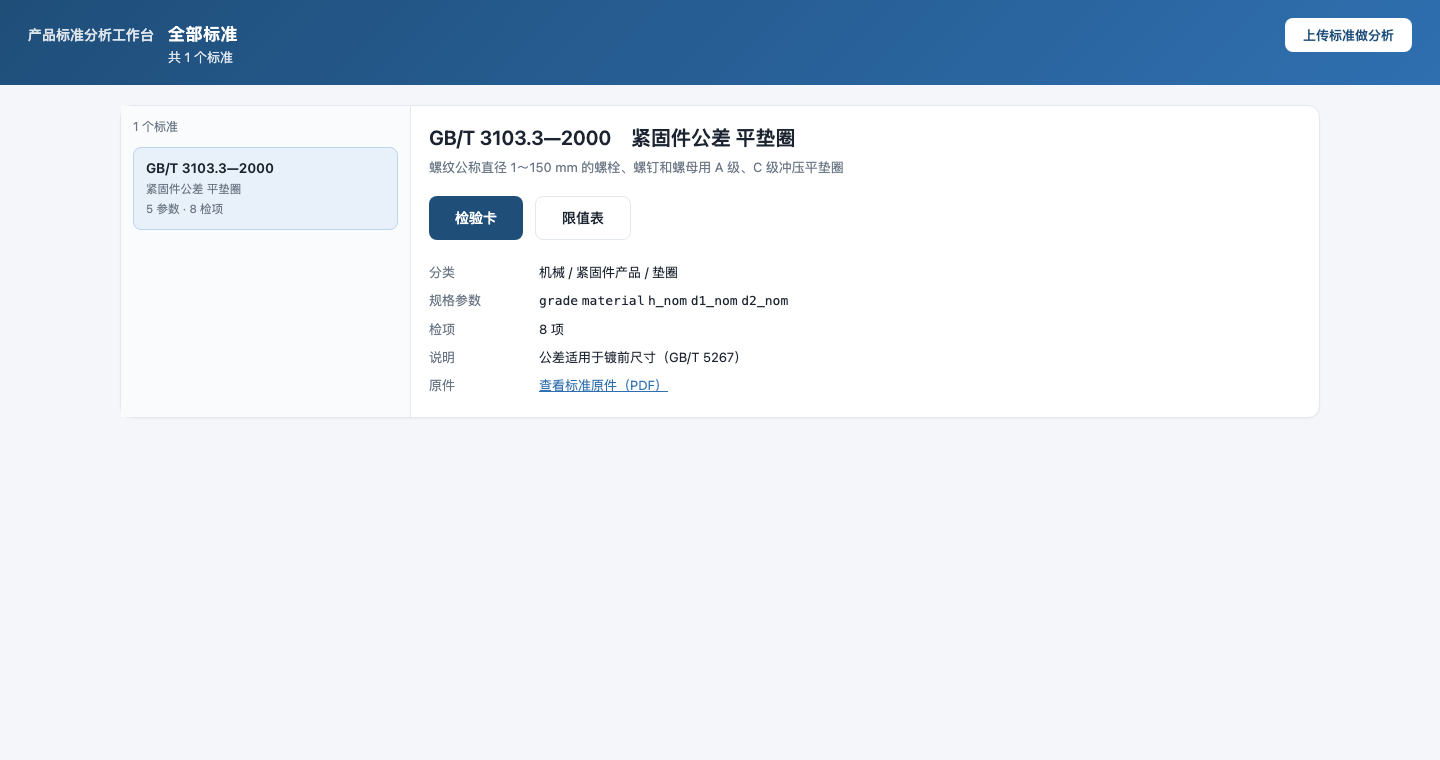
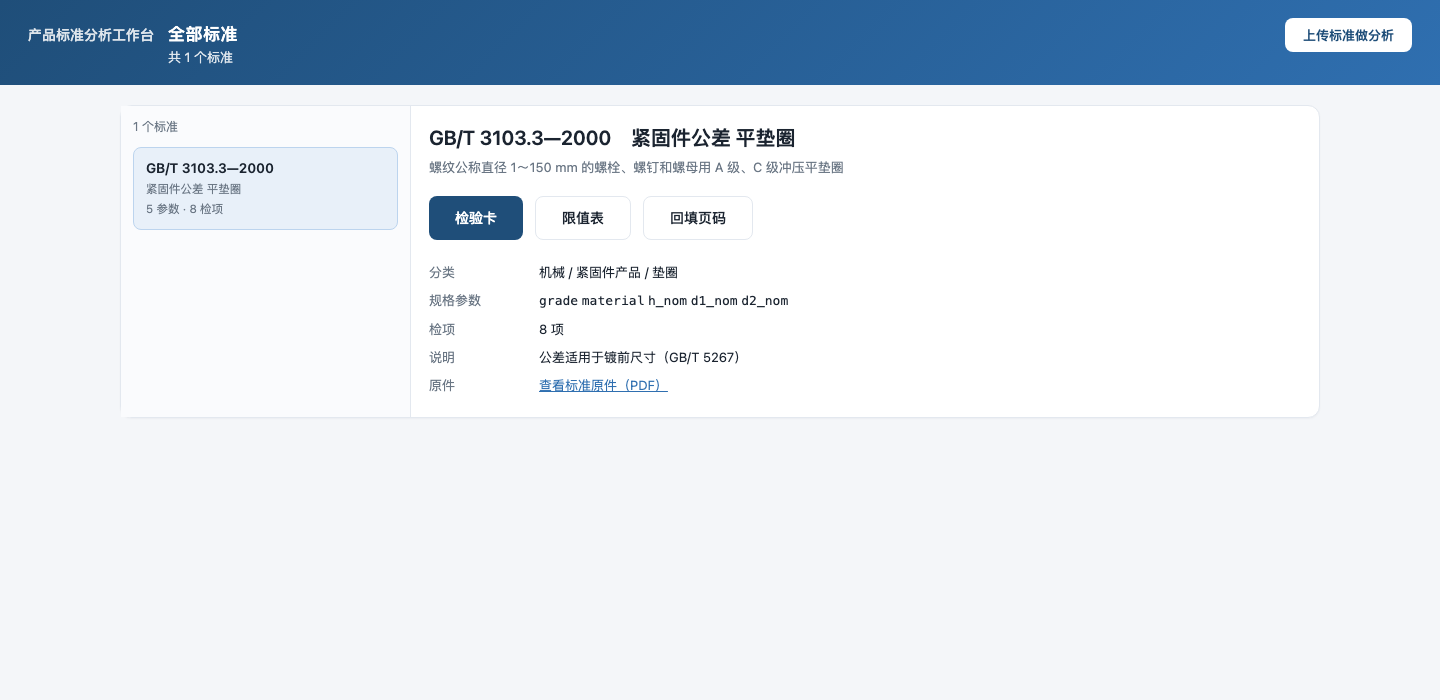
feat: 按条款号从原件回填页码
- 新增 POST /api/standards/{id}/backfill-pages：重新 OCR 原件，按条款号定位页码
  评分优先「行首即条款号」的标题行，避开前言里（3.5.3条）这类引用
- 挂载原件（POST .../source）时自动跑一次回填
- 首页详情加「回填页码」按钮（有原件时才出现）
- 修复：同一文件重传时，document.job_id 指到最新作业，避免指针过期
- 测试补 4 项（发布无页码 → 回填 → 校验落到正确页）

diff --git a/g1/service/templates/index.html b/g1/service/templates/index.html
@@ -811,6 +811,10 @@ async function renderStdDetail(id, info){
     <div class="detail-actions">
       <button class="btn primary" id="goCard">检验卡</button>
       <button class="btn ghost" id="goTables">限值表</button>
+      ${(info && info.has_source)
+        ? '<button class="btn ghost" id="btnBackfill" title="按条款号在原件的 OCR 文本里找页码">回填页码</button>'
+        : ''}
+      <span class="msg" id="backfillMsg" style="align-self:center"></span>
     </div>
     <dl class="kv">
       <dt>分类</dt><dd>${esc(meta.category || '—')}</dd>
@@ -824,6 +828,19 @@ async function renderStdDetail(id, info){
     </dl>`;
   $('#goCard').onclick = () => { location.hash = '#/card/' + id; };
   $('#goTables').onclick = () => { location.hash = '#/tables/' + id; };
+  const bf = $('#btnBackfill');
+  if(bf) bf.onclick = async () => {
+    bf.disabled = true;
+    $('#backfillMsg').textContent = '识别中…';
+    try{
+      const r = await fetch(`/api/standards/${encodeURIComponent(id)}/backfill-pages`, {method:'POST'});
+      const d = await r.json();
+      $('#backfillMsg').textContent = r.ok
+        ? `已回填 ${d.changed} 项（匹配 ${d.matched} 项）`
+        : ('失败：' + (d.detail || r.status));
+    }catch(e){ $('#backfillMsg').textContent = '失败：网络错误'; }
+    bf.disabled = false;
+  };
 }
 
 /* ================= 检验卡 ================= */

diff --git a/g1/service/app.py b/g1/service/app.py
@@ -8,6 +8,7 @@ from __future__ import annotations
 
 import hashlib
 import os
+import re
 import shutil
 import sys
 import uuid
@@ -26,6 +27,7 @@ from pydantic import BaseModel, Field  # noqa: E402
 
 import card_std  # noqa: E402
 import db as dbmod  # noqa: E402
+import extract_doc  # noqa: E402
 import jobs as jobstore  # noqa: E402
 from card import build_card  # noqa: E402
 from limit_engine import Status  # noqa: E402
@@ -273,6 +275,67 @@ class SourcePayload(BaseModel):
     job_id: str
 
 
+def _doc_pages(doc) -> list[dict]:
+    """取出原件的分页文本（优先复用作业缓存，否则重新 OCR）。"""
+    if doc["storage"] == "file" and doc["path"]:
+        return extract_doc.run_ocr(doc["path"], 200)["pages"]
+    tmp = jobstore.UPLOADS / f"backfill-{doc['id'][:12]}.pdf"
+    tmp.parent.mkdir(parents=True, exist_ok=True)
+    tmp.write_bytes(bytes(doc["content"]))
+    try:
+        return extract_doc.run_ocr(tmp, 200)["pages"]
+    finally:
+        tmp.unlink(missing_ok=True)
+
+
+def _clause_page(pages: list[dict], clause: str, name: str) -> int | None:
+    """按条款号找页码。
+
+    评分：行首就是条款号（标题行）> 条款号 + 名称开头 > 只出现条款号。
+    这样能避开前言里的"……（3.5.3条）"这类引用。
+    """
+    clause = (clause or "").strip()
+    if not clause:
+        return None
+    pat = re.compile(r"(?<![\d.])" + re.escape(clause) + r"(?![\d.])")
+    head = (name or "").strip()[:2]
+    best_score, best_page = 0, None
+    for p in pages:
+        for ln in p.get("lines", []):
+            if not pat.search(ln):
+                continue
+            if ln.strip().startswith(clause):
+                return int(p["page"])          # 标题行，最可信
+            score = 2 if (head and head in ln) else 1
+            if score > best_score:
+                best_score, best_page = score, int(p["page"])
+    return best_page
+
+
+def backfill_pages(std_id: str) -> dict:
+    std = _std(std_id)
+    conn = dbmod.connect()
+    doc = dbmod.document_for_standard(conn, std_id)
+    if not doc:
+        raise HTTPException(404, "这个标准还没有存档原件，无法回填页码")
+    pages = _doc_pages(doc)
+    found: dict[str, int] = {}
+    detail = []
+    for it in std.items:
+        page = _clause_page(pages, it.get("clause") or "", it.get("name") or "")
+        if page:
+            found[it["id"]] = page
+            detail.append({"id": it["id"], "clause": it.get("clause"), "page": page})
+    n = dbmod.update_item_pages(conn, std_id, found)
+    _reload(std_id)
+    return {"ok": True, "matched": len(found), "changed": n, "items": detail}
+
+
+@app.post("/api/standards/{std_id}/backfill-pages")
+def backfill_pages_api(std_id: str):
+    return backfill_pages(std_id)
+
+
 @app.post("/api/standards/{std_id}/source")
 def attach_source(std_id: str, payload: SourcePayload):
     """把某次上传的原件挂到这个标准上（人工整理的标准也能有原件）。"""
@@ -290,7 +353,12 @@ def attach_source(std_id: str, payload: SourcePayload):
     conn.execute("UPDATE standard SET source_json=? WHERE id=?",
                  (_json.dumps(src, ensure_ascii=False), std_id))
     conn.commit()
-    return {"ok": True, "filename": doc["filename"], "sha256": doc["id"]}
+    try:
+        back = backfill_pages(std_id)
+    except Exception:
+        back = {"matched": 0, "changed": 0}
+    return {"ok": True, "filename": doc["filename"], "sha256": doc["id"],
+            "pages_matched": back.get("matched", 0), "pages_changed": back.get("changed", 0)}
 
 
 @app.get("/api/standards/{std_id}/source.pdf")

diff --git a/g1/service/db.py b/g1/service/db.py
@@ -391,11 +391,11 @@ def save_document(conn: sqlite3.Connection, sha: str, filename: str, size: int,
                   *, data: bytes | None = None, path: str | None = None,
                   job_id: str | None = None, std_id: str | None = None) -> str:
     """按 sha256 入库；同内容只存一份。"""
-    row = conn.execute("SELECT id FROM document WHERE id=?", (sha,)).fetchone()
+    row = conn.execute("SELECT id, storage FROM document WHERE id=?", (sha,)).fetchone()
     if row:
+        # 同内容已在库：把 job 指针挪到最新一次上传（旧作业可能已被清掉）
         if job_id:
-            conn.execute("UPDATE document SET job_id=? WHERE id=? AND job_id IS NULL",
-                         (job_id, sha))
+            conn.execute("UPDATE document SET job_id=? WHERE id=?", (job_id, sha))
         conn.commit()
         return sha
     storage = "db" if data is not None else "file"
@@ -434,3 +434,22 @@ def document_for_standard(conn: sqlite3.Connection, std_id: str):
 def link_document(conn: sqlite3.Connection, job_id: str, std_id: str) -> None:
     conn.execute("UPDATE document SET std_id=? WHERE job_id=?", (std_id, job_id))
     conn.commit()
+
+
+def update_item_pages(conn: sqlite3.Connection, std_id: str, pages: dict[str, int]) -> int:
+    """把 {检项 id: 页码} 写回 item_json，返回改动条数。"""
+    row = conn.execute("SELECT item_json FROM standard WHERE id=?", (std_id,)).fetchone()
+    if not row:
+        return 0
+    items = json.loads(row[0] or "[]")
+    n = 0
+    for it in items:
+        page = pages.get(it.get("id"))
+        if page and it.get("page") != page:
+            it["page"] = page
+            n += 1
+    if n:
+        conn.execute("UPDATE standard SET item_json=? WHERE id=?",
+                     (json.dumps(items, ensure_ascii=False), std_id))
+        conn.commit()
+    return n

diff --git a/g1/service/test_analyze.py b/g1/service/test_analyze.py
@@ -151,9 +151,10 @@ def main():
     for it in items:
         limits[it["id"]] = {"mode": "range", "lower": 1.0, "upper": 2.0, "unit": "mm"}
     limits[items[0]["id"]] = {"mode": "max", "lower": None, "upper": 0.5, "unit": "mm"}
+    items_no_page = [dict(it, page=None) for it in items]      # 故意不带页码
     pub = post("/api/standards/publish", {
         "job_id": job_id, "code": "GB/T 9999-TEST", "title": "测试标准（自动发布）",
-        "params": job2.get("params_spec") or [], "items": items, "limits": limits,
+        "params": job2.get("params_spec") or [], "items": items_no_page, "limits": limits,
         "source": {"job_id": job_id},
     })
     std_id = pub.get("std_id")
@@ -183,6 +184,17 @@ def main():
           jd["rows"][0]["verdict"] == "不合格", jd["rows"][0]["verdict"])
     check("判定生效：区间内判合格",
           sum(1 for r in jd["rows"] if r["verdict"] == "合格") >= 1, str(jd["counts"]))
+
+    print("5b. 从原件回填页码")
+    meta_before = getjson(f"/api/meta?std={std_id}")
+    check("发布时页码为空", all(i.get("page") is None for i in meta_before["items"]),
+          str([i.get("page") for i in meta_before["items"]][:3]))
+    bf = post(f"/api/standards/{std_id}/backfill-pages", {})
+    check("回填命中全部检项", bf.get("matched") == len(items), str(bf)[:120])
+    meta_after = getjson(f"/api/meta?std={std_id}")
+    got = {i["clause"]: i["page"] for i in meta_after["items"]}
+    check("每条都有了页码", all(v for v in got.values()), str(got))
+    check("3.1 与 3.5.x 落在正确页", got.get("3.1") == 4 and got.get("3.5.2") == 5, str(got))
 
     print("6. 原件入库与去重")
     st, body, _ = get(f"/api/analyze/jobs/{job_id}/source.pdf")

diff --git a/spec.md b/spec.md
@@ -142,6 +142,10 @@ CREATE TABLE limit_row (
 界面把条款号渲染成 `/api/standards/{id}/source.pdf#page=N` 的链接，直接打开 PDF 对应页。
 没有存档原件时（`has_source=false`）退化为纯文本。
 
+**页码回填**：`POST /api/standards/{id}/backfill-pages` 重新 OCR 原件（200 dpi），
+按条款号定位页码——优先取"行首就是条款号"的标题行，避开前言里"（3.5.3条）"这类引用；
+退化时按"条款号 + 名称前两字"匹配。挂载原件（`POST .../source`）时会自动跑一次。
+
 ### 5.5 区间约定
 
 所有分档一律**左开右闭** `(from, to]`，第一档 `from=0` 时含 0。
@@ -177,6 +181,7 @@ CREATE TABLE limit_row (
 | POST | `/api/judge` | `{std, params, measured}` → 逐项结论 |
 | GET | `/api/card.xlsx?std=&<参数>` | 导出检验卡 |
 | GET | `/api/standards/{id}/source.pdf` | 下载标准原件（`#page=N` 可在浏览器定位到页） |
+| POST | `/api/standards/{id}/backfill-pages` | 按条款号在原件的 OCR 文本里回填页码 |
 | POST | `/api/standards/{id}/source` | 把某次上传的原件挂到该标准 |
 | GET | `/api/documents` | 已存档原件清单 |
 | GET | `/api/db/stats` | 库统计 |

diff --git a/README.md b/README.md
@@ -14,7 +14,7 @@
 
 | 页面 | 路由 | 做什么 |
 |---|---|---|
-| 全部标准 | `#/standards` | 选标准，进检验卡或限值表 |
+| 全部标准 | `#/standards` | 选标准，进检验卡或限值表；可查看原件、回填页码 |
 | 检验卡 | `#/card/<标准>` | 选规格 → 出卡 → 录实测 → 判定；条款号可点开原件对应页 |
 | 限值表 | `#/tables/<标准>` | 左选表、右看明细；每张表可跳转原件页码 |
 | 上传分析 | `#/analyze` | 上传 PDF → 识别检项与表格 → 确认 → 发布成标准 |
